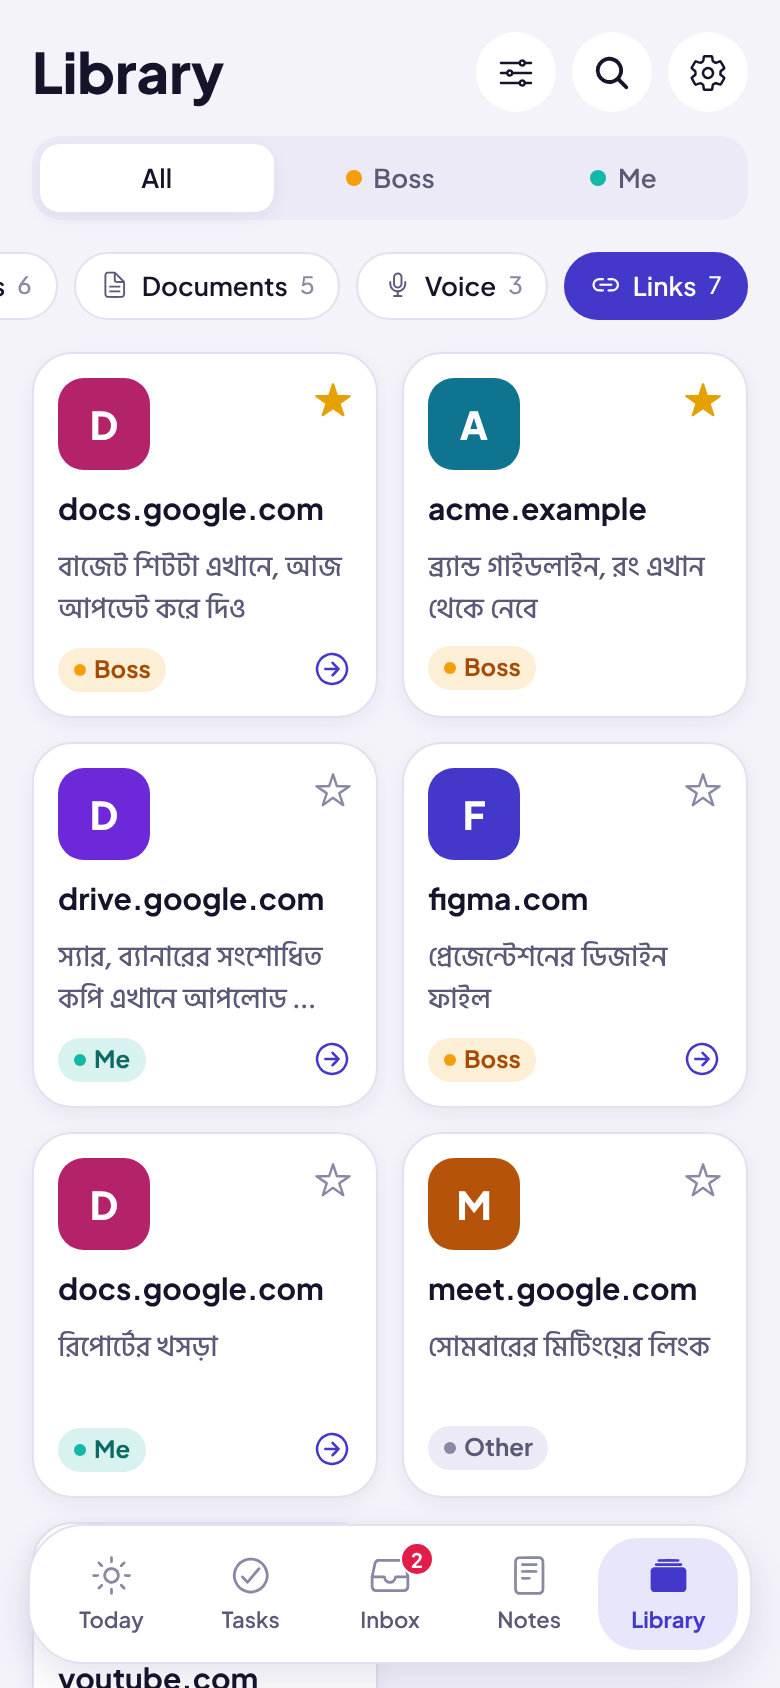
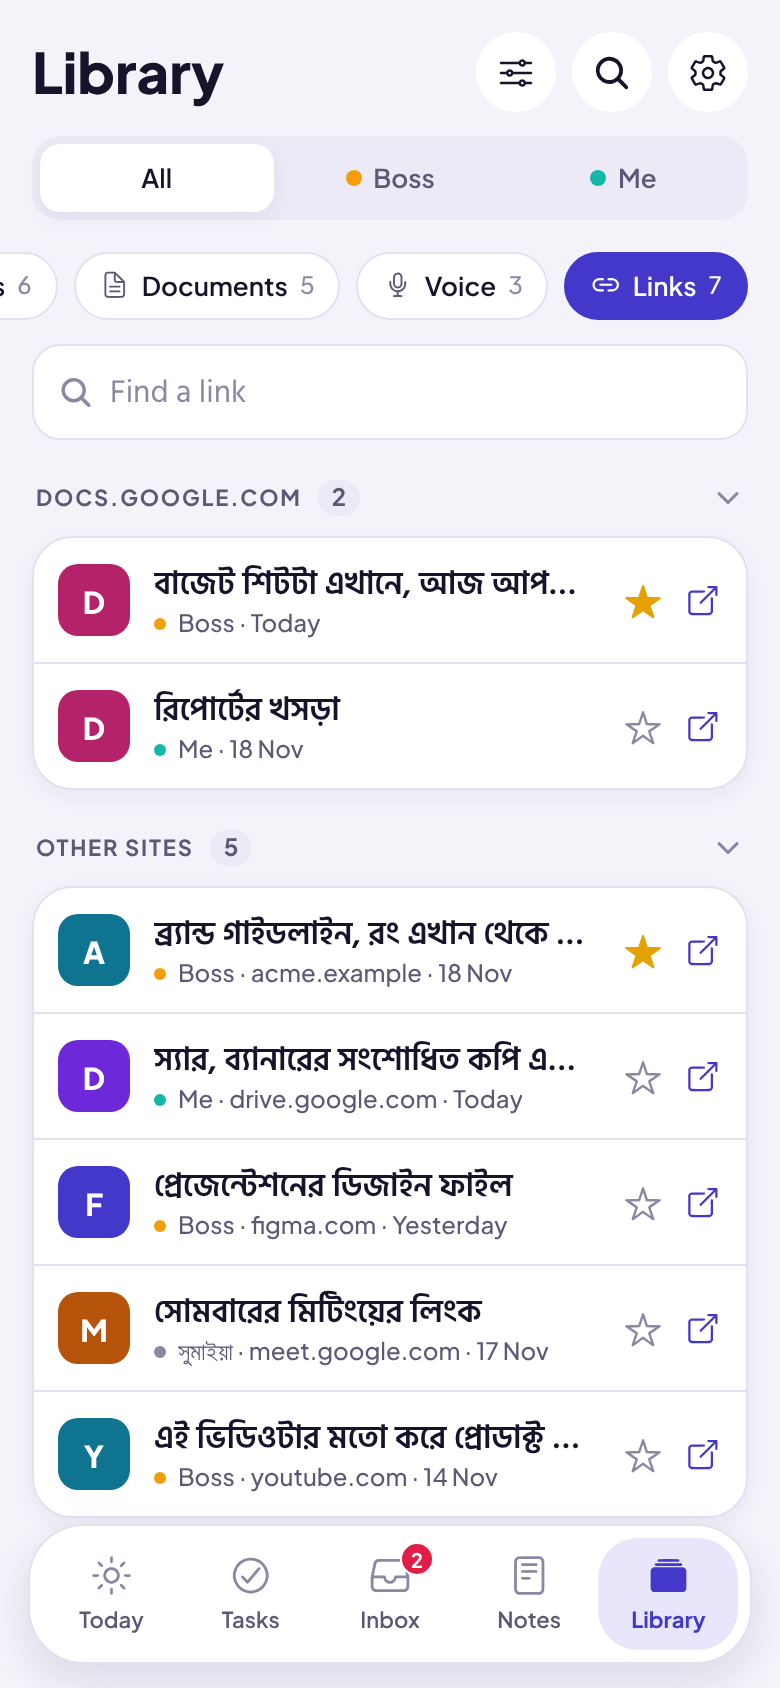
Make links a scannable list: one tap to open, grouped by site, searchable
Claude-Session: https://claude.ai/code/session_01E3m2fXAVDghodczNW3t8k8

diff --git a/app/src/app/(tabs)/library.tsx b/app/src/app/(tabs)/library.tsx
@@ -1,18 +1,20 @@
+import { Ionicons } from '@expo/vector-icons';
 import { useFocusEffect } from 'expo-router';
 import { useCallback, useEffect, useMemo, useState } from 'react';
-import { RefreshControl, ScrollView, View, useWindowDimensions } from 'react-native';
-import { DocTile, FileListRow, LinkCard, LinkTile, PhotoTile, VoiceCard } from '@/components/library';
-import { Chip, Empty, ErrorBanner, GlobalActions, Header, IconBtn, OptionGroup, RoleFilterBar, SectionHeader, Sheet, Skeleton, styles, type IconName } from '@/components/ui';
+import { Pressable, RefreshControl, ScrollView, TextInput, View, useWindowDimensions } from 'react-native';
+import { DocTile, FileListRow, LinkCard, LinkRow, LinkTile, PhotoTile, VoiceCard, linkLabel } from '@/components/library';
+import { Card, Chip, Empty, ErrorBanner, GlobalActions, Header, IconBtn, OptionGroup, RoleFilterBar, SectionHeader, Sheet, Skeleton, styles, type IconName } from '@/components/ui';
 import * as api from '@/lib/api';
 import { useData } from '@/lib/data';
 import { dayHeading, fileExt, fileGroup, fileTitle, splitUrl } from '@/lib/format';
 import { usePref } from '@/lib/prefs';
 import { ROLE_LABEL, matchesRole } from '@/lib/roles';
-import { space, useTheme } from '@/lib/theme';
+import { content, noOutline, radius, space, useTheme } from '@/lib/theme';
 import type { LibFile, LibLink, RoleFilter } from '@/lib/types';
 
 type Section = 'photo' | 'document' | 'voice' | 'link';
 type ViewMode = 'grid' | 'list';
+type LinkView = 'compact' | 'card' | 'grid';
 type Sort = 'new' | 'old' | 'name';
 type GroupBy = 'none' | 'date' | 'sender' | 'type';
 type Entry = { key: string; name: string; type: string; starred: boolean } & ({ file: LibFile; link?: undefined } | { link: LibLink; file?: undefined });
@@ -23,6 +25,7 @@ const SECTIONS: { value: Section; label: string; icon: IconName }[] = [
   { value: 'voice', label: 'Voice', icon: 'mic-outline' },
   { value: 'link', label: 'Links', icon: 'link-outline' },
 ];
+const OTHER_SITES = 'Other sites';
 const EMPTY: Record<Section, { icon: IconName; title: string }> = {
   photo: { icon: 'image-outline', title: 'No photos here' },
   document: { icon: 'document-text-outline', title: 'No documents here' },
@@ -48,6 +51,13 @@ export default function Library() {
   const [sort, setSort] = usePref<Sort>('lib:sort', 'new');
   const [groupBy, setGroupBy] = usePref<GroupBy>('lib:group', 'none');
   const [starFirst, setStarFirst] = usePref<'on' | 'off'>('lib:starred', 'on');
+  // Links are arranged separately from files: a dense list grouped by site by default.
+  const [linkView, setLinkView] = usePref<LinkView>('lib:link:view', 'compact');
+  const [linkGroup, setLinkGroup] = usePref<GroupBy>('lib:link:group', 'type');
+  const [linkQuery, setLinkQuery] = useState('');
+  const [collapsed, setCollapsed] = useState<Record<string, boolean>>({});
+  const isLinks = section === 'link';
+  const grouping = isLinks ? linkGroup : groupBy;
 
   const load = useCallback(async () => {
     const res = await api.fetchLibrary();
@@ -84,21 +94,26 @@ export default function Library() {
   };
 
   const visibleFiles = useMemo(() => files.filter((f) => matchesRole(role(f.sender_tg_id), who)), [files, role, who]);
-  const visibleLinks = useMemo(() => links.filter((l) => matchesRole(role(l.sender_tg_id), who)), [links, role, who]);
+  const roleLinks = useMemo(() => links.filter((l) => matchesRole(role(l.sender_tg_id), who)), [links, role, who]);
+  const visibleLinks = useMemo(() => {
+    const q = linkQuery.trim().toLowerCase();
+    if (!q) return roleLinks;
+    return roleLinks.filter((l) => `${l.url} ${l.text ?? ''} ${l.sender_name ?? ''}`.toLowerCase().includes(q));
+  }, [roleLinks, linkQuery]);
   const counts: Record<Section, number> = useMemo(
     () => ({
       photo: visibleFiles.filter((f) => fileGroup(f) === 'photo').length,
       document: visibleFiles.filter((f) => fileGroup(f) === 'document').length,
       voice: visibleFiles.filter((f) => fileGroup(f) === 'voice').length,
-      link: visibleLinks.length,
+      link: roleLinks.length,
     }),
-    [visibleFiles, visibleLinks],
+    [visibleFiles, roleLinks],
   );
 
   const groups = useMemo(() => {
     const entries: Entry[] =
       section === 'link'
-        ? visibleLinks.map((link) => ({ key: link.id, link, name: splitUrl(link.url, link.domain).host, type: splitUrl(link.url, link.domain).host, starred: link.starred }))
+        ? visibleLinks.map((link) => ({ key: link.id, link, name: linkLabel(link), type: splitUrl(link.url, link.domain).host, starred: link.starred }))
         : visibleFiles.filter((f) => fileGroup(f) === section).map((file) => ({ key: file.id, file, name: fileTitle(file), type: section === 'voice' ? 'Voice' : fileExt(file), starred: file.starred }));
     const at = (e: Entry) => (e.file ?? e.link).sent_at;
     entries.sort((a, b) => {
@@ -111,16 +126,26 @@ export default function Library() {
       const src = e.file ?? e.link;
       const r = role(src.sender_tg_id);
       const key =
-        groupBy === 'date' ? dayHeading(src.sent_at) : groupBy === 'sender' ? (r === 'other' ? (src.sender_name ?? ROLE_LABEL.other) : r === 'boss' ? 'From boss' : 'From me') : groupBy === 'type' ? e.type : '';
+        grouping === 'date' ? dayHeading(src.sent_at) : grouping === 'sender' ? (r === 'other' ? (src.sender_name ?? ROLE_LABEL.other) : r === 'boss' ? 'From boss' : 'From me') : grouping === 'type' ? e.type : '';
       out.set(key, [...(out.get(key) ?? []), e]);
     }
-    return [...out.entries()];
-  }, [section, visibleFiles, visibleLinks, sort, groupBy, starFirst, role]);
+    const list = [...out.entries()];
+    // Sites with the most links first, so the busiest sources are on top.
+    if (section === 'link' && grouping === 'type') {
+      // Sites with one link each would be a page of tiny groups; keep them together at the end.
+      const busy = list.filter(([, l]) => l.length > 1).sort((a, b) => b[1].length - a[1].length || a[0].localeCompare(b[0]));
+      const singles = list.filter(([, l]) => l.length === 1).flatMap(([, l]) => l);
+      if (!busy.length) return singles.length ? [['', singles] as [string, Entry[]]] : [];
+      return singles.length ? [...busy, [OTHER_SITES, singles] as [string, Entry[]]] : busy;
+    }
+    return list;
+  }, [section, visibleFiles, visibleLinks, sort, grouping, starFirst, role]);
 
   const contentWidth = width - space.lg * 2;
   const photoSize = Math.floor((contentWidth - space.sm * 2) / 3);
   const tileWidth = Math.floor((contentWidth - space.md) / 2);
-  const grid = mode === 'grid' && section !== 'voice';
+  const grid = isLinks ? linkView === 'grid' : mode === 'grid' && section !== 'voice';
+  const compactLinks = isLinks && linkView === 'compact';
 
   const renderEntry = (e: Entry) => {
     if (e.link) {
@@ -163,25 +188,79 @@ export default function Library() {
         <ScrollView horizontal showsHorizontalScrollIndicator={false} contentContainerStyle={{ gap: space.sm, paddingHorizontal: space.lg }}>
           {SECTIONS.map((s) => <Chip key={s.value} icon={s.icon} label={s.label} count={counts[s.value]} active={section === s.value} onPress={() => setSection(s.value)} />)}
         </ScrollView>
-        <View style={{ paddingHorizontal: space.lg, paddingTop: groupBy === 'none' ? space.lg : 0 }}>
+        {isLinks && links.length ? (
+          <View style={{ flexDirection: 'row', alignItems: 'center', gap: space.sm, marginHorizontal: space.lg, marginTop: space.md, backgroundColor: t.surface, borderColor: t.border, borderWidth: 1, borderRadius: radius.md, paddingHorizontal: space.md }}>
+            <Ionicons name="search" size={18} color={t.faint} />
+            <TextInput
+              value={linkQuery}
+              onChangeText={setLinkQuery}
+              placeholder="Find a link"
+              placeholderTextColor={t.faint}
+              autoCapitalize="none"
+              autoCorrect={false}
+              returnKeyType="search"
+              accessibilityLabel="Find a link"
+              style={[{ flex: 1, color: t.text, fontFamily: content.regular, fontSize: 16, paddingVertical: 10 }, noOutline]}
+            />
+            {linkQuery ? <Ionicons name="close-circle" size={18} color={t.faint} onPress={() => setLinkQuery('')} accessibilityLabel="Clear" /> : null}
+          </View>
+        ) : null}
+        <View style={{ paddingHorizontal: space.lg, paddingTop: groups.length && !groups[0][0] ? space.lg : 0 }}>
           <ErrorBanner text={error} />
           {loading ? <Skeleton /> : null}
-          {!loading && !groups.length ? <Empty icon={EMPTY[section].icon} title={EMPTY[section].title} text="Files and links shared in the group are collected here automatically." /> : null}
-          {groups.map(([title, list]) => (
-            <View key={title || 'all'}>
-              {title ? <SectionHeader title={title} count={list.length} /> : null}
-              <View style={grid ? { flexDirection: 'row', flexWrap: 'wrap', gap: section === 'photo' ? space.sm : space.md } : { gap: space.md }}>
-                {list.map(renderEntry)}
+          {!loading && !groups.length ? (
+            isLinks && linkQuery.trim() ? (
+              <Empty icon="search-outline" title="No matching links" text="Try a site name or a word from the message." />
+            ) : (
+              <Empty icon={EMPTY[section].icon} title={EMPTY[section].title} text="Files and links shared in the group are collected here automatically." />
+            )
+          ) : null}
+          {groups.map(([title, list]) => {
+            const closed = isLinks && !!title && !!collapsed[title];
+            return (
+              <View key={title || 'all'}>
+                {title && isLinks ? (
+                  <Pressable
+                    onPress={() => setCollapsed((c) => ({ ...c, [title]: !c[title] }))}
+                    accessibilityRole="button"
+                    accessibilityState={{ expanded: !closed }}
+                    accessibilityLabel={`${title}, ${list.length} links`}>
+                    <SectionHeader title={title} count={list.length} action={<Ionicons name={closed ? 'chevron-forward' : 'chevron-down'} size={16} color={t.faint} />} />
+                  </Pressable>
+                ) : title ? (
+                  <SectionHeader title={title} count={list.length} />
+                ) : null}
+                {closed ? null : compactLinks ? (
+                  <Card style={{ padding: 0, overflow: 'hidden' }}>
+                    {list.map((e, i) =>
+                      e.link ? (
+                        <LinkRow key={e.key} link={e.link} onStar={() => star('links', e.link.id, !e.link.starred)} showHost={grouping !== 'type' || !title || title === OTHER_SITES} last={i === list.length - 1} />
+                      ) : null,
+                    )}
+                  </Card>
+                ) : (
+                  <View style={grid ? { flexDirection: 'row', flexWrap: 'wrap', gap: section === 'photo' ? space.sm : space.md } : { gap: space.md }}>
+                    {list.map(renderEntry)}
+                  </View>
+                )}
               </View>
-            </View>
-          ))}
+            );
+          })}
         </View>
       </ScrollView>
 
-      <Sheet visible={options} onClose={() => setOptions(false)} title="Arrange library">
-        <OptionGroup label="View" value={mode} onChange={setMode} options={[{ value: 'grid', label: 'Grid', icon: 'grid-outline' }, { value: 'list', label: 'List', icon: 'list-outline' }]} />
+      <Sheet visible={options} onClose={() => setOptions(false)} title={isLinks ? 'Arrange links' : 'Arrange library'}>
+        {isLinks ? (
+          <OptionGroup label="View" value={linkView} onChange={setLinkView} options={[{ value: 'compact', label: 'List', icon: 'reorder-four-outline' }, { value: 'card', label: 'Cards', icon: 'list-outline' }, { value: 'grid', label: 'Grid', icon: 'grid-outline' }]} />
+        ) : (
+          <OptionGroup label="View" value={mode} onChange={setMode} options={[{ value: 'grid', label: 'Grid', icon: 'grid-outline' }, { value: 'list', label: 'List', icon: 'list-outline' }]} />
+        )}
         <OptionGroup label="Sort" value={sort} onChange={setSort} options={[{ value: 'new', label: 'Newest' }, { value: 'old', label: 'Oldest' }, { value: 'name', label: 'Name' }]} />
-        <OptionGroup label="Group by" value={groupBy} onChange={setGroupBy} options={[{ value: 'none', label: 'None' }, { value: 'date', label: 'Date' }, { value: 'sender', label: 'Sender' }, { value: 'type', label: 'Type' }]} />
+        {isLinks ? (
+          <OptionGroup label="Group by" value={linkGroup} onChange={setLinkGroup} options={[{ value: 'type', label: 'Site' }, { value: 'date', label: 'Date' }, { value: 'sender', label: 'Sender' }, { value: 'none', label: 'None' }]} />
+        ) : (
+          <OptionGroup label="Group by" value={groupBy} onChange={setGroupBy} options={[{ value: 'none', label: 'None' }, { value: 'date', label: 'Date' }, { value: 'sender', label: 'Sender' }, { value: 'type', label: 'Type' }]} />
+        )}
         <OptionGroup label="Starred" value={starFirst} onChange={setStarFirst} options={[{ value: 'on', label: 'Starred first', icon: 'star' }, { value: 'off', label: 'Mixed in' }]} />
       </Sheet>
     </View>

diff --git a/app/src/components/library.tsx b/app/src/components/library.tsx
@@ -189,6 +189,52 @@ function useCopy(url: string) {
   return { copied, copy };
 }
 
+/** What the link is: the sender's own words around it, else the path, else the site. */
+export function linkLabel(link: LibLink): string {
+  const { host, rest } = splitUrl(link.url, link.domain);
+  const said = link.text?.replace(link.url, '').replace(/\s+/g, ' ').trim();
+  return said || (rest ? host + rest : host);
+}
+
+/**
+ * One line per link for scanning a long list: tap anywhere to open it,
+ * hold to copy. `showHost` is off when the list is already grouped by site.
+ */
+export function LinkRow({ link, onStar, showHost = true, last }: LinkProps & { showHost?: boolean; last?: boolean }) {
+  const t = useTheme();
+  const { role } = useData();
+  const { host } = splitUrl(link.url, link.domain);
+  const { copied, copy } = useCopy(link.url);
+  const r = role(link.sender_tg_id);
+  const who = r === 'boss' ? 'Boss' : r === 'me' ? 'Me' : (link.sender_name ?? 'Other');
+  return (
+    <Pressable
+      onPress={() => Linking.openURL(link.url)}
+      onLongPress={copy}
+      accessibilityRole="link"
+      accessibilityLabel={`Open ${linkLabel(link)}`}
+      accessibilityHint="Hold to copy the link"
+      style={({ pressed }) => [
+        { flexDirection: 'row', alignItems: 'center', gap: space.md, paddingVertical: 11, paddingHorizontal: space.md, minHeight: 60 },
+        !last && { borderBottomWidth: 1, borderBottomColor: t.border },
+        pressed && { backgroundColor: t.surfaceAlt },
+      ]}>
+      <DomainTile host={host} size={36} />
+      <View style={{ flex: 1 }}>
+        <Txt variant="body" content strong numberOfLines={1}>{linkLabel(link)}</Txt>
+        <View style={{ flexDirection: 'row', alignItems: 'center', gap: 6 }}>
+          <View style={{ width: 6, height: 6, borderRadius: 3, backgroundColor: roleColors(t, r).solid }} />
+          <Txt variant="caption" sub numberOfLines={1} style={{ flexShrink: 1 }}>
+            {copied ? 'Link copied' : [who, showHost ? host : null, fmtDate(link.sent_at)].filter(Boolean).join(' · ')}
+          </Txt>
+        </View>
+      </View>
+      <StarButton starred={link.starred} onPress={onStar} />
+      <Ionicons name="open-outline" size={18} color={t.primary} />
+    </Pressable>
+  );
+}
+
 export function LinkCard({ link, onStar }: LinkProps) {
   const t = useTheme();
   const { role } = useData();
